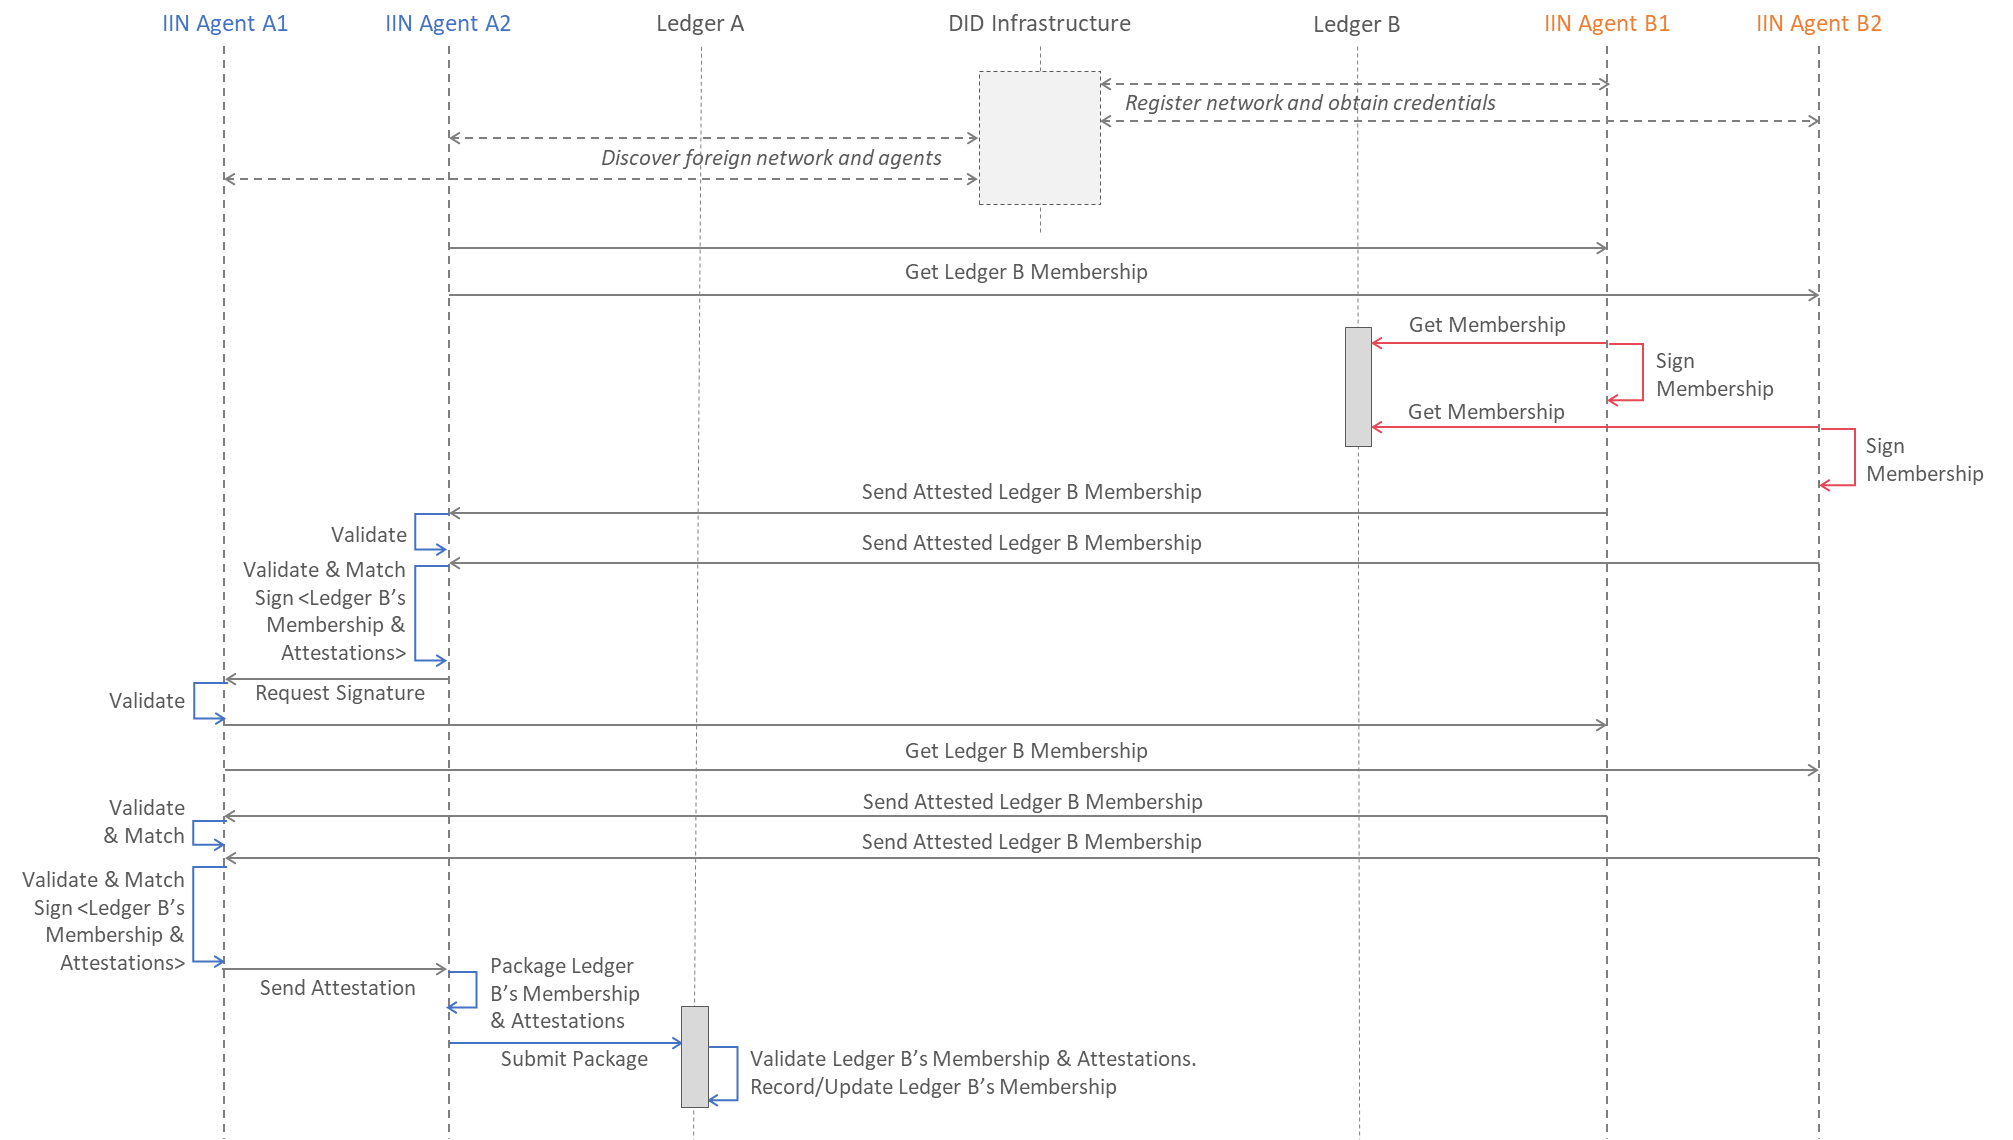
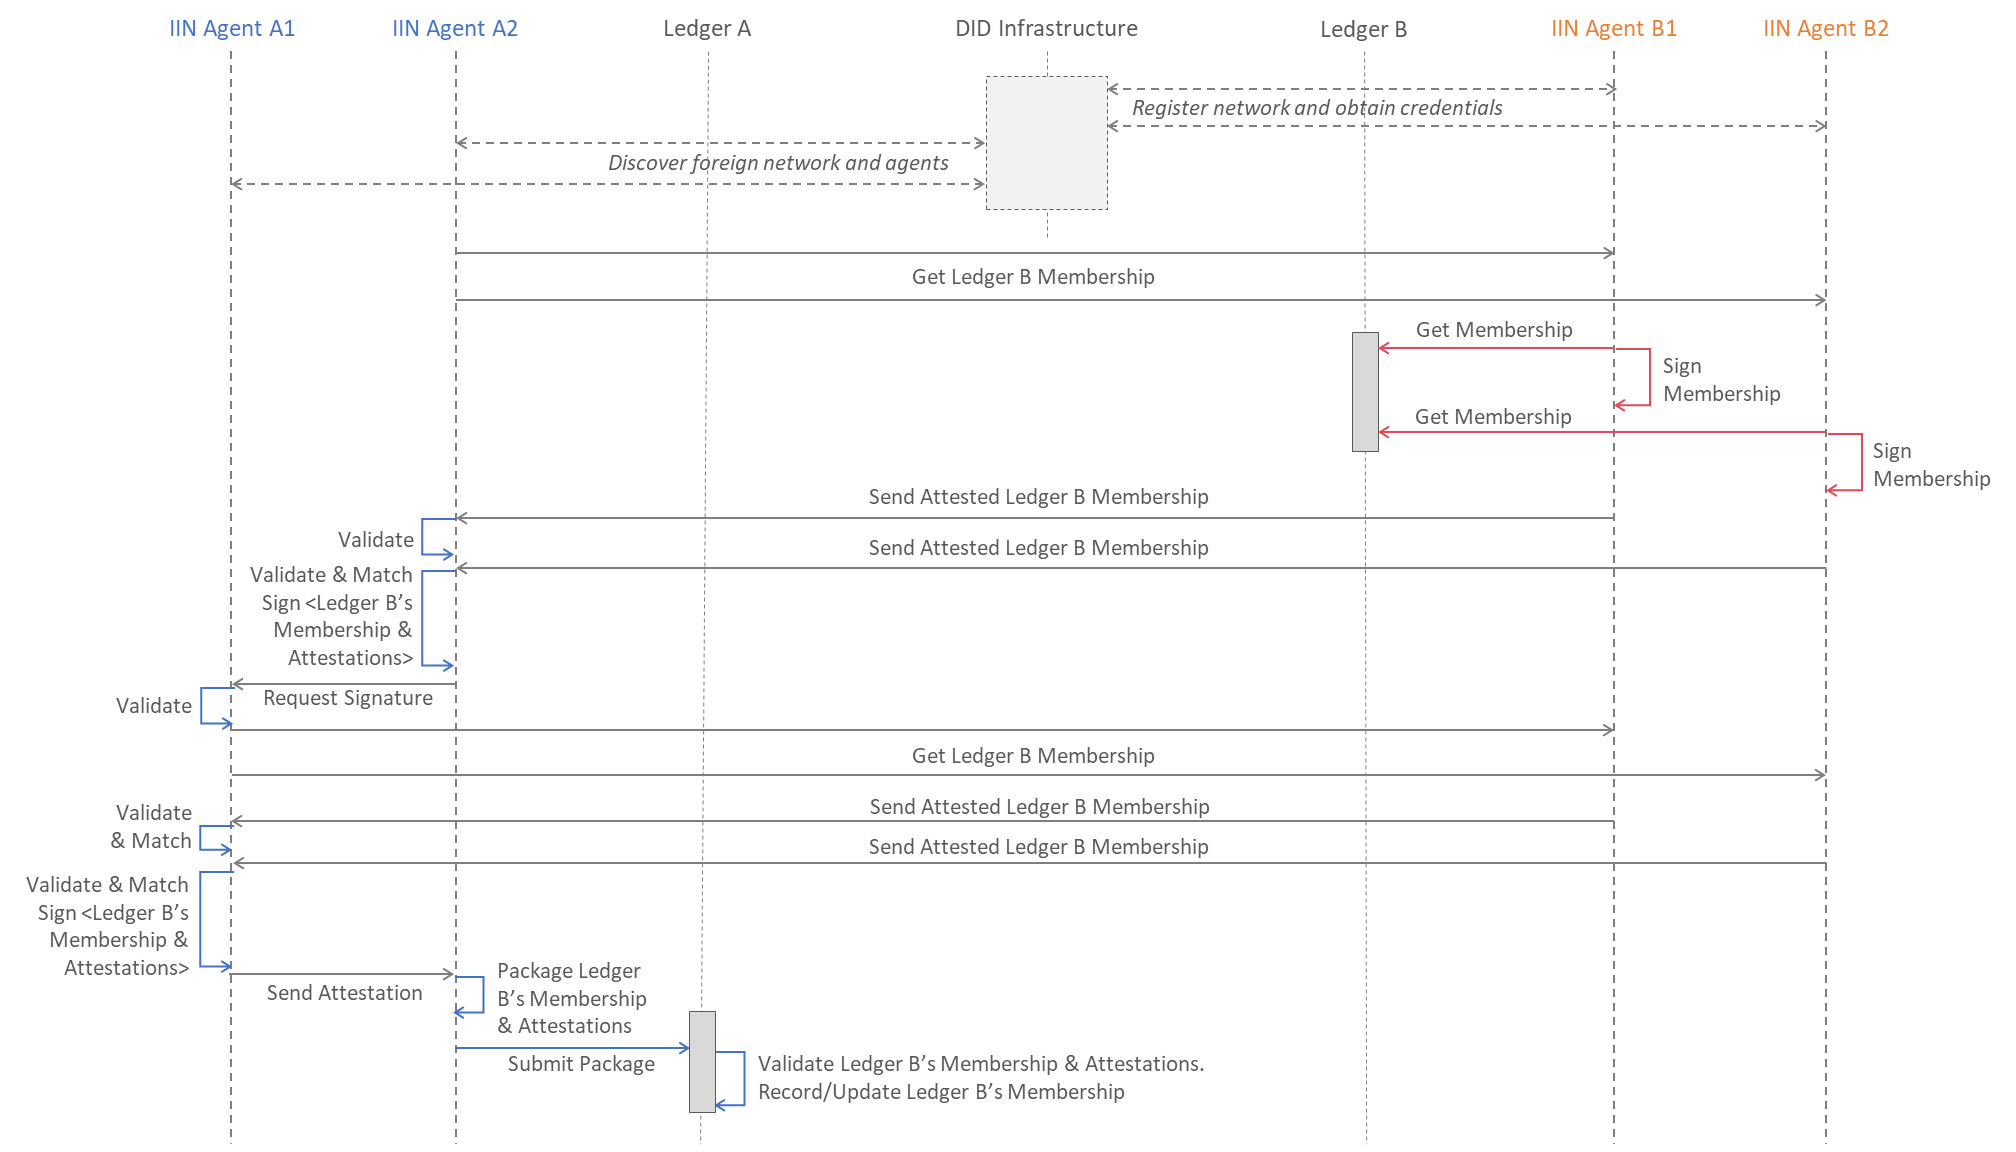
Fixed RFC images to have white backgrounds
Images need to be viewable against dark backgrounds too.
Fixed test IIN Makefile.
Re-enabled Github workflows to use recently published packages.

diff --git a/rfcs/protocols/identity/id-config-sharing.md b/rfcs/protocols/identity/id-config-sharing.md
@@ -21,7 +21,7 @@ This is an identity plane protocol to exchange identity information between two 
 
 As mentioned in the background document (linked to above), there are three phases in the process between a new network unit making itself known via an IIN and a Steward up to the point when its identity and certificates are accepted and recorded by a foreign network with which an interoperation (in the data plane) may occur in the future. These phases are separate protocol instances in themselves, though they must follow a particular chronological order. The full process is illustrated in the figure below:
 
-<img src="../../resources/images/protocol-identity-overview.jpg" width=60%>
+<img src="../../resources/images/protocol-identity-overview.png" width=60%>
 
 First, each network unit of a network (above, without loss of generality, `NETWORK 1`) must register itself with an IIN and a Steward in that IIN. So Step 1 in the above figure must be carried out by each unit independently before a network is ready to interoperate with another.
 
@@ -49,7 +49,7 @@ The protocol in each phase is described below. As above, without loss of general
 
 ## Protocol: Registration
 
-<img src="../../resources/images/protocol-registration-phase.jpg">
+<img src="../../resources/images/protocol-registration-phase.png">
 
 An IIN Agent represents each network unit: two for `NETWORK 2` and one for `NETWORK 1`.
 
@@ -64,7 +64,7 @@ The steps of this registration procedure are as follows:
 
 ## Protocol: Get Foreign Network Membership Information
 
-<img src="../../resources/images/protocol-get-info-phase.jpg">
+<img src="../../resources/images/protocol-get-info-phase.png">
 
 This stage of the protocol involves three entities (and the IIN):
 * IIN Agent of a recently registered network unit: `IIN Agent Org3` (`NETWORK 1`)
@@ -86,7 +86,7 @@ It is possible for the membership credential schema or verification key to be re
 
 ## Protocol: Update Foreign Network Information
 
-<img src="../../resources/images/protocol-update-info-phase.jpg">
+<img src="../../resources/images/protocol-update-info-phase.png">
 
 This stage of the protocol involves all the entities that participate in this scenario (and the IIN):
 * IIN Agent of a recently registered network unit: `IIN Agent Org3` (`NETWORK 1`)

diff --git a/rfcs/protocols/identity/identity-syncing.md b/rfcs/protocols/identity/identity-syncing.md
@@ -48,7 +48,7 @@ There are different units in the identity plane with different roles as follows:
 
 The organizational unit corresponding to each network member must have its DID record registered in some IIN. The following steps must be performed to create a DID record in an IIN registry.
 
-<img src="../../resources/images/participant_identity_configuration.jpg">
+<img src="../../resources/images/participant-identity-configuration.png">
 
 **Step 1. member chooses a unique DID**
 
@@ -114,7 +114,7 @@ A DID document does not contain any personal information about its holder, like 
 
 ## Security Domain Identity Creation as Security Domain DID
 
-<img src="../../resources/images/network_did_creation.jpg">
+<img src="../../resources/images/network-did-creation.png">
 
 A security domain creates its own DID record in an IIN registry. The Security Domain DID is controlled jointly by its members according to the [group controller specification](https://w3c.github.io/did-core/#group-control). This DID can then be used as a way of addressing the network/domain, to discover and configure its identity and membership for interoperation. 
 
@@ -307,7 +307,7 @@ The IIN registry authenticates a Security Domain DID update request the same way
 
 The security domain validation and membership syncing protocols must be re-run every time there is a change in a security domain's identity (DID document) or in its membership configuration. The flow diagram below illustrates the complete process from the time a change occurs in one network up to the point where its updated identity and membership info is reflected in another network's ledger as a prerequisite for data plane interoperation. Each step in this diagram represents a separate protocol: (1) is described in this document above, (2) is described in the [security domain identity validation specification](./security-domain-identity-validation.md), and (3) in the [membership syncing specification](./membership-syncing.md).
 
-<img src="../../resources/images/protocol-identity-overview.jpg" width=70%>
+<img src="../../resources/images/protocol-identity-overview.png" width=70%>
 
 The trigger for Step 2 can be any of the following:
 * Manual trigger applied by a network administrator

diff --git a/rfcs/models/identity/network-identity-management.md b/rfcs/models/identity/network-identity-management.md
@@ -63,7 +63,7 @@ The below figure (Fig. 3) illustrates our identity plane architecture:
 * A set of agents, called *IIN Agents* that act on behalf of members (participant units) within a network that collectively supply and fetch membership, identity, and any other configuration information, of the counterparty network.
 
 <div align="center">
-<img src="../../resources/images/identity-plane.jpg" width=70%>
+<img src="../../resources/images/identity-plane.png" width=70%>
 <br/>
 <figcaption>Fig.3 - Identity plane architecture overview</figcaption><br/>
 </div>

diff --git a/rfcs/protocols/events/event-bus.md b/rfcs/protocols/events/event-bus.md
@@ -48,7 +48,7 @@ See specification on [events](../models/events.md) for event types.
   * State for ensuring delivery guarantees, sequencing etc can be tracked on the ledger.
 * The data model for Weaver events are easier to enforce, which applications must comply with.
 
-<img src="../../resources/images/event-capture-graphene.png" width=60%>
+<img src="../../resources/images/event-capture-weaver.png" width=60%>
 
 ## Event Proofs
 

diff --git a/rfcs/models/identity/iin-agent.md b/rfcs/models/identity/iin-agent.md
@@ -23,7 +23,7 @@ This view is illustrated in the figure below (Fig.1), which maps quite naturally
 
 
 <div align="center">
-<img src="../../resources/images/iin-augmented-network.jpg" width=60%>
+<img src="../../resources/images/iin-augmented-network.png" width=60%>
 <br/>
 <figcaption>Fig.1 - IIN Agents as Components of DLT Networks.</figcaption>
 </div>
